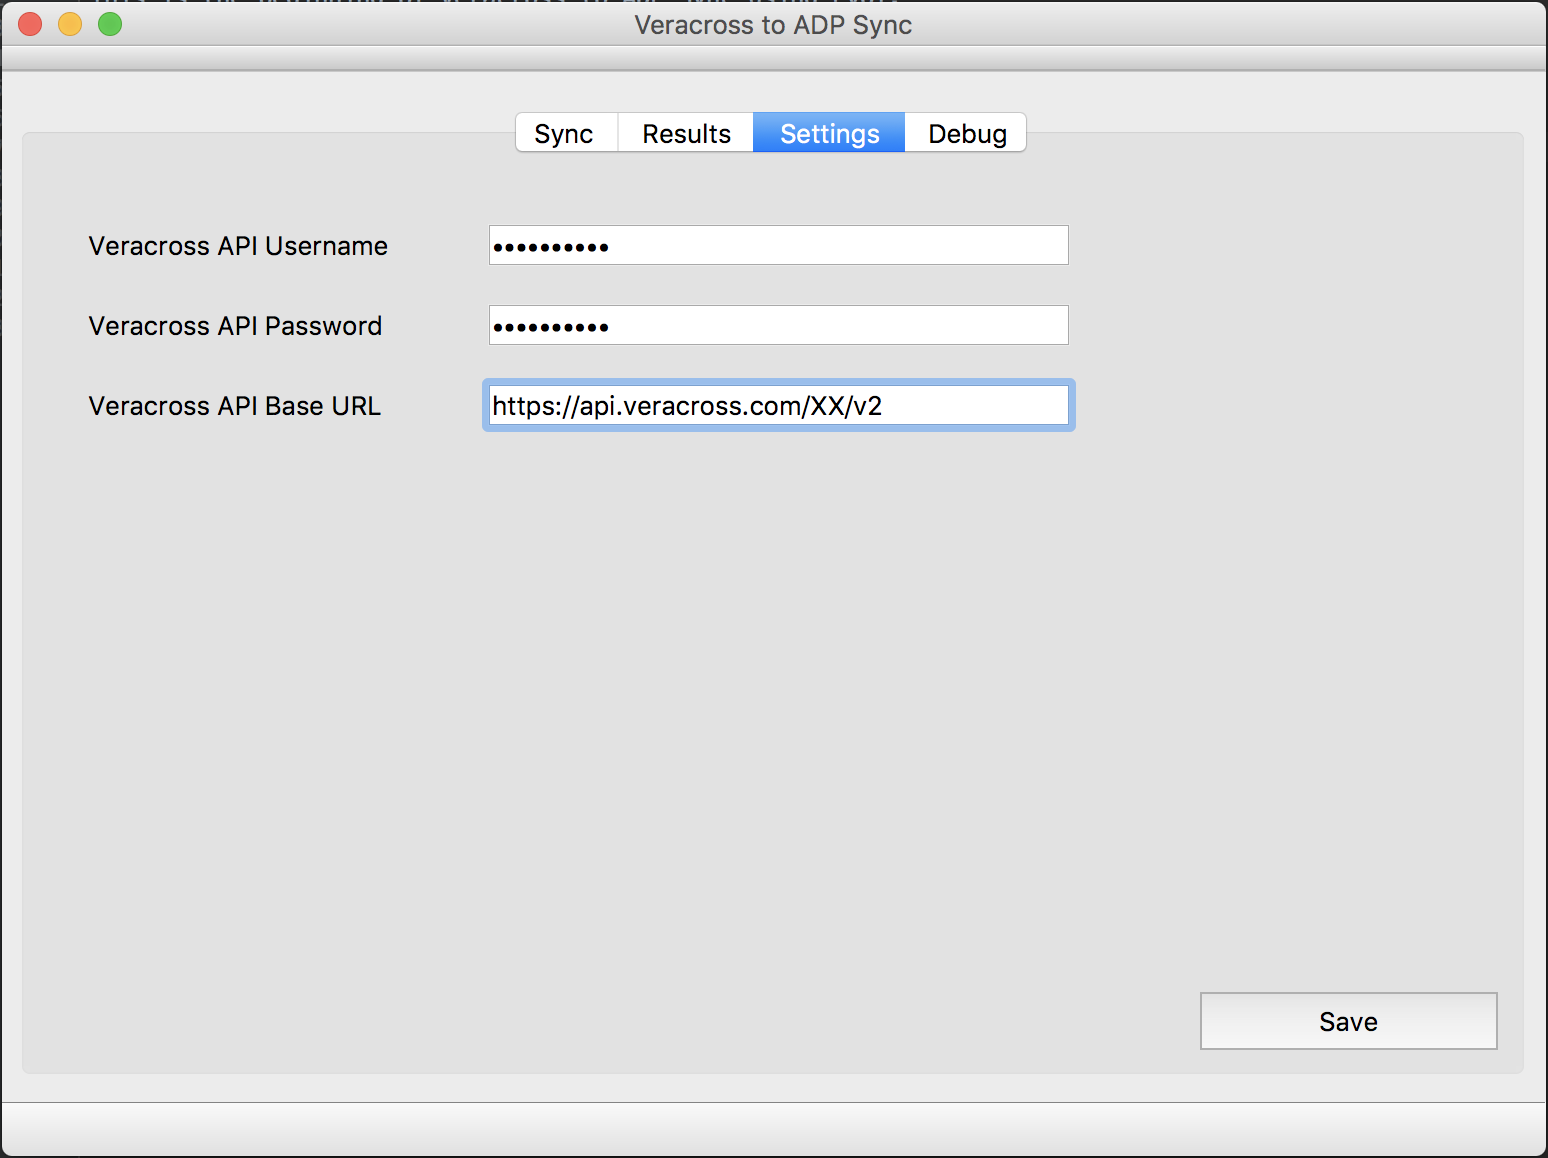
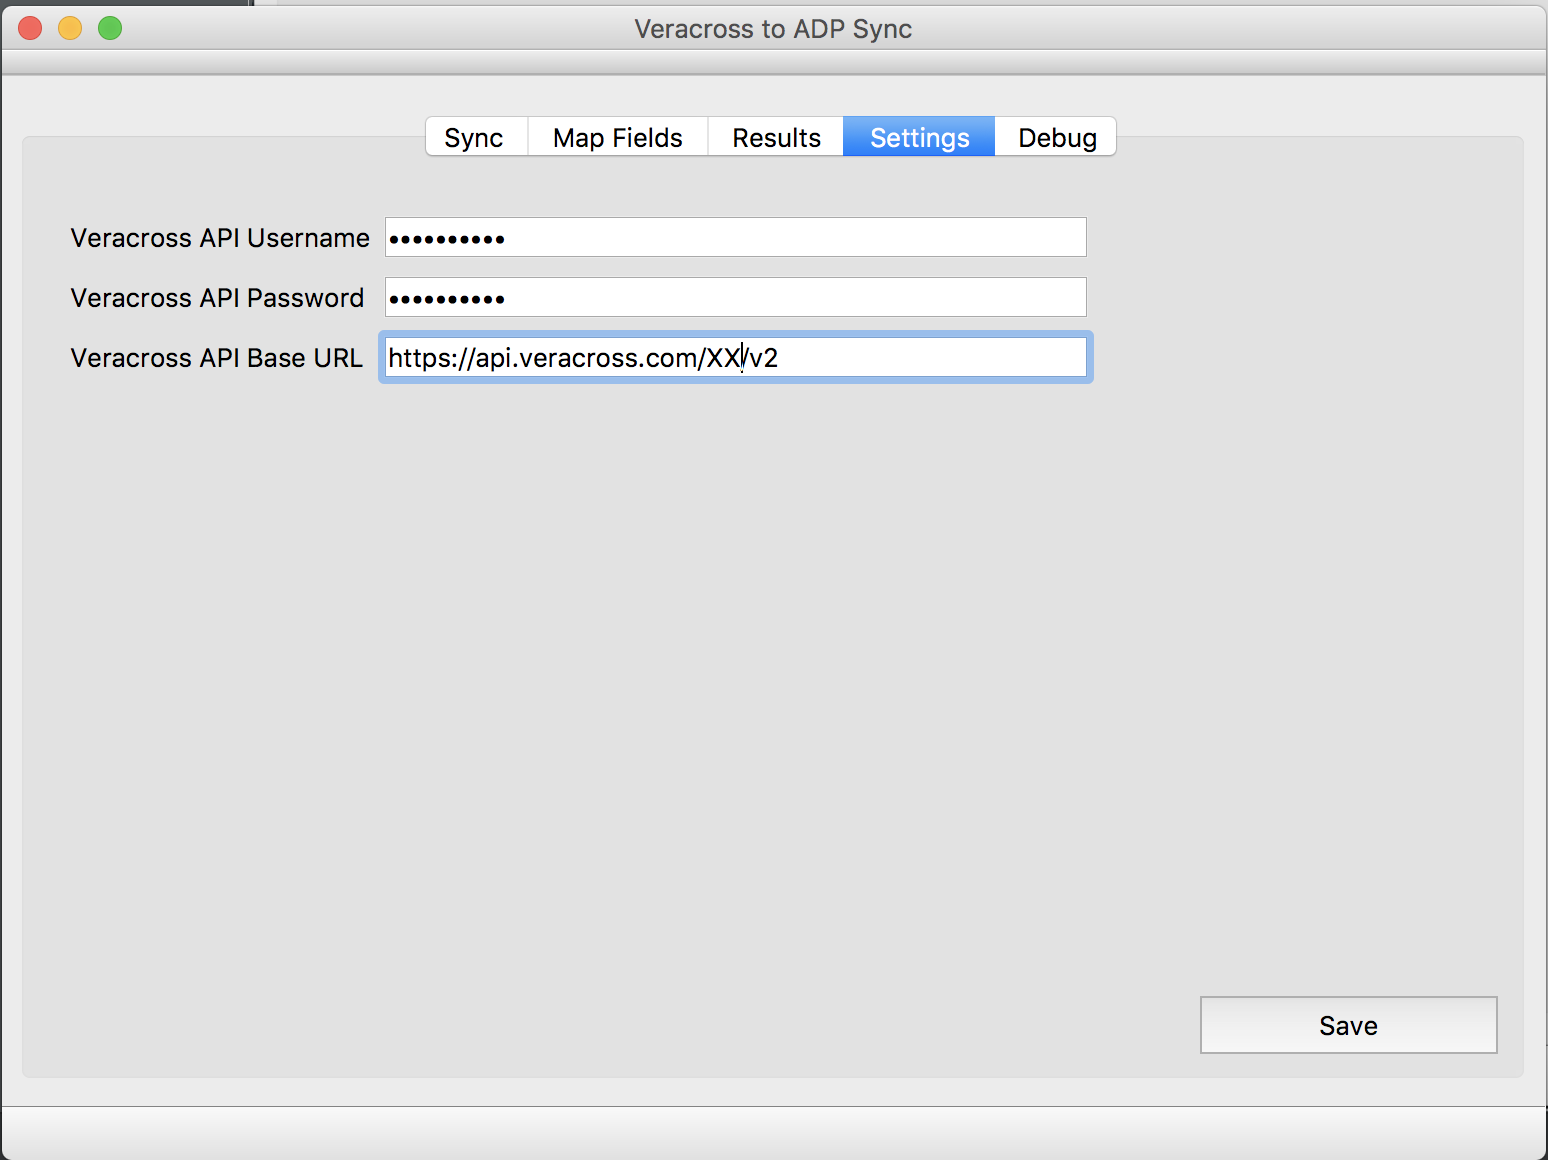
screenshot update

diff --git a/README.md b/README.md
@@ -39,6 +39,9 @@ ADP API field.\
 ![Alt text](screenshots/sync.png?raw=true "Sync Tab")
 
 
+![Alt text](screenshots/map_fields.png?raw=true "Map Fields Tab")
+
+
 ![Alt text](screenshots/settings.png?raw=true "Settings Tab")
 
 
